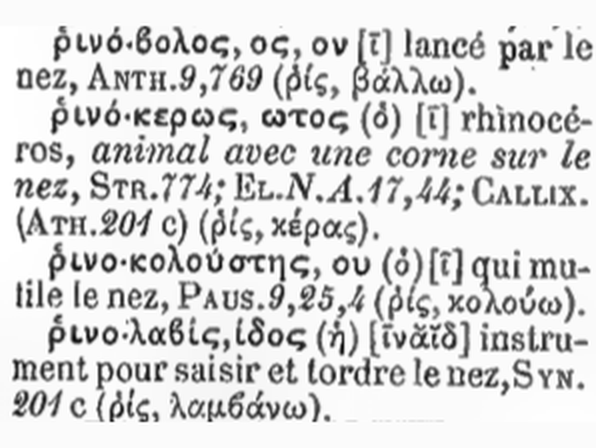
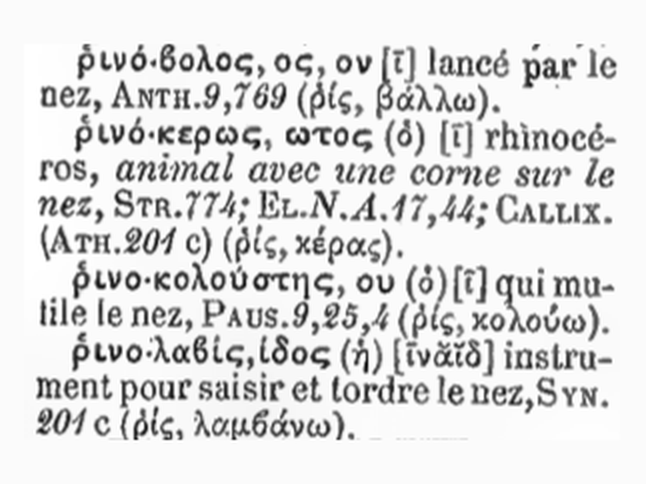
About page: the figures left out on a short window; the facsimile whole, the images lazy
At most 45rem high, the hero leaves out its figures as the cue its label: the icon keeps a fair size. The 1935 facsimile is contained in its frame, on its paper's color (its first and last lines no longer cut). Both pages' images load once near the view.

Claude-Session: https://claude.ai/code/session_01UFwyj6pM3hfMQWdvWaUnHC

diff --git a/app/pages/à-propos.vue b/app/pages/à-propos.vue
@@ -162,7 +162,8 @@
               :ui="{ leadingIcon: 'md:size-6' }"
             />
           </div>
-          <dl class="mt-[clamp(0.75rem,3.5svh,3rem)] grid w-full max-w-2xl grid-cols-3 gap-4 border-t border-terracotta-700/35 dark:border-terracotta-600/40 pt-[clamp(0.75rem,2.5svh,1.5rem)]">
+          <!-- Left out on a short window, as the cue's label: the icon keeps its size. -->
+          <dl class="mt-[clamp(0.75rem,3.5svh,3rem)] [@media(max-height:45rem)]:hidden grid w-full max-w-2xl grid-cols-3 gap-4 border-t border-terracotta-700/35 dark:border-terracotta-600/40 pt-[clamp(0.75rem,2.5svh,1.5rem)]">
             <div
               v-for="figure in figures"
               :key="figure.label"
@@ -368,13 +369,16 @@
           </p>
 
           <article class="flex flex-col gap-6 md:grid md:grid-cols-[16rem_minmax(0,1fr)] md:items-start md:gap-8 lg:flex lg:col-start-1 lg:row-start-2">
-            <div class="mx-auto aspect-[4/3] w-full max-w-sm bg-white overflow-hidden rounded-lg border border-(--rule-color) shadow-[0_0_0_4px_var(--app-page-bg),0_0_0_6px_var(--rule-color)] md:max-w-none">
+            <div class="mx-auto aspect-[4/3] w-full max-w-sm bg-[#fbfbfb] overflow-hidden rounded-lg border border-(--rule-color) shadow-[0_0_0_4px_var(--app-page-bg),0_0_0_6px_var(--rule-color)] md:max-w-none">
+              <!-- Whole (contained, on the scan's paper): its first and last lines not cut. -->
               <img
                 src="/images/bailly-1935-rhinokeros.webp"
-                width="596"
-                height="448"
+                width="646"
+                height="484"
                 alt="L'entrée ῥινόκερως dans l'édition de 1935 (fac-similé)."
-                class="size-full object-cover"
+                loading="lazy"
+                decoding="async"
+                class="size-full object-contain"
               >
             </div>
             <div class="min-w-0 max-md:text-center">
@@ -400,6 +404,8 @@
                 width="560"
                 height="420"
                 alt="L'entrée ῥινόκερως dans l'édition PDF de 2020."
+                loading="lazy"
+                decoding="async"
                 class="size-full object-cover"
               >
             </div>
